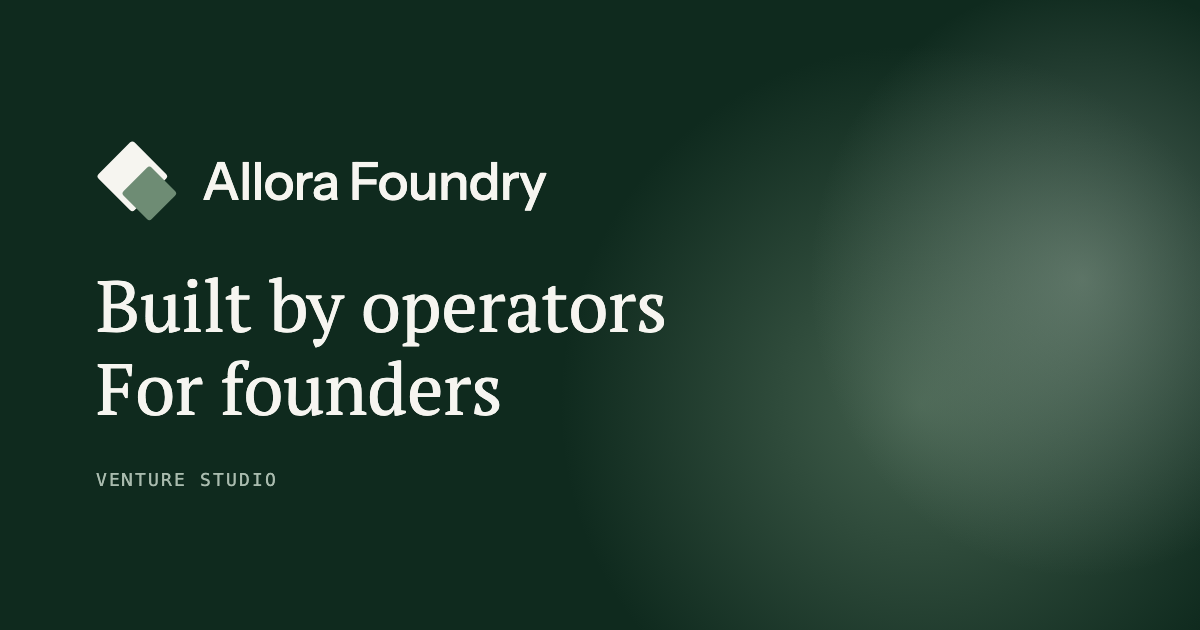
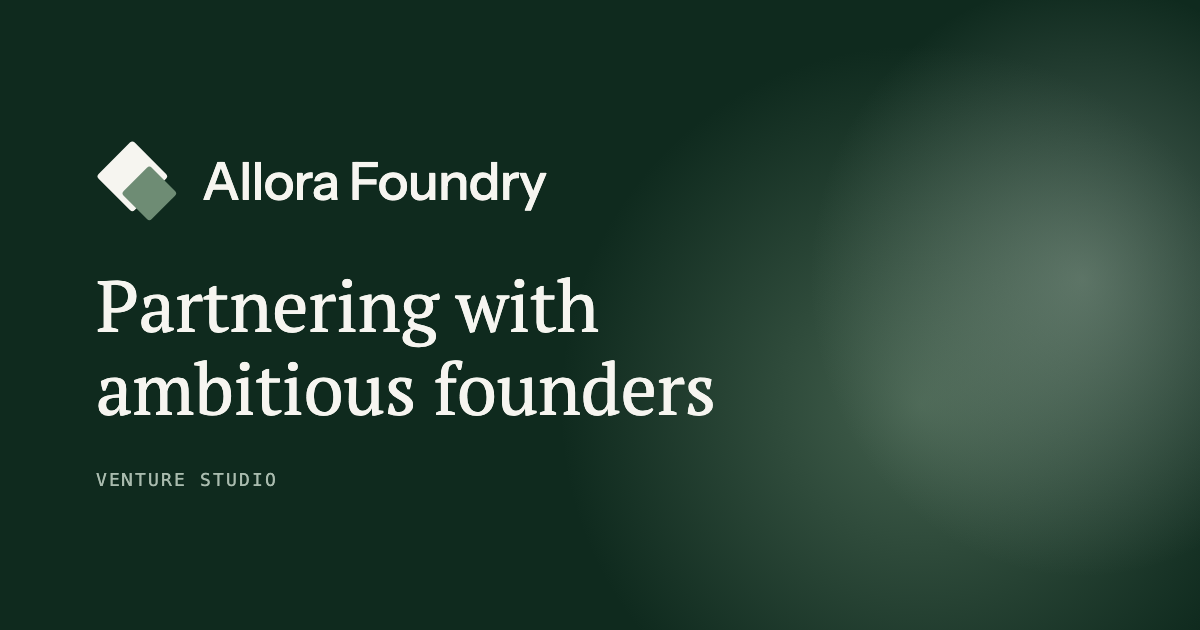
Change homepage headline to "Partnering with ambitious founders"

Changed region(s): [[0.0617, 0.4222, 0.6167, 0.6635]]

diff --git a/index.html b/index.html
@@ -63,7 +63,7 @@
     <canvas class="dotfield" aria-hidden="true" data-dotfield></canvas>
     <div class="container hero-inner">
       <p class="eyebrow">Venture Studio</p>
-      <h1>Built by operators <br>For founders</h1>
+      <h1>Partnering with ambitious founders</h1>
       <p class="hero-sub">We help founders build and scale real products from engineering to launch to growth</p>
       <div class="hero-actions">
         <a href="portfolio.html" class="btn btn-primary">See Our Portfolio</a>
